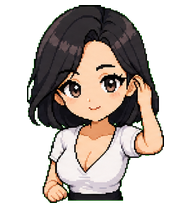
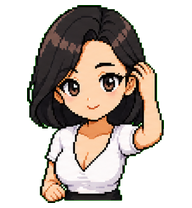
fix(pets): match Vera jumping style to idle rows

Changed region(s): [[0.125, 0.0288, 0.875, 0.9808], [0.4062, 0.0, 0.5312, 0.0288], [0.4688, 0.6635, 0.5, 0.6923]]

diff --git a/pet-runs/vera-clear/prompts/rows/jumping.md b/pet-runs/vera-clear/prompts/rows/jumping.md
@@ -15,7 +15,7 @@ Style contract: Codex digital pet sprite style: pixel-art-adjacent low-resolutio
 
 Use this prompt as an authoritative sprite-production spec. Do not expand it into a polished illustration, painterly character image, anime key art, 3D render, vector mascot, glossy app icon, realistic animal portrait, or marketing artwork.
 
-Animation action: subtle mouseover hair-tidy gesture: one hand rises to the ear, gently sweeps the side hair behind the ear, then settles.
+Animation action: subtle mouseover hair-tidy gesture: one hand rises in front of the ear, gathers the side hair there, gently sweeps it behind the ear, then settles.
 
 Current canonical character lock:
 - Preserve the first approved base's slightly longer soft oval face, warm gray-brown eyes, tiny friendly smile, side-swept black bob, and broad simple hair highlights.
@@ -26,7 +26,7 @@ Current canonical character lock:
 
 User motion directive:
 - No laptop in this row.
-- Replace the old jump with a one-hand hair-tidy gesture: only the same one hand throughout the row reaches beside the ear/back hair, lightly gathers the side hair, and sweeps it behind the ear.
+- Replace the old jump with a one-hand hair-tidy gesture: only the same one hand throughout the row reaches in front of the ear, lightly gathers the side hair there, and sweeps it behind the ear.
 - Do not flick the hair outward, fan the hair tips away from the head, or scale the whole character down to make room for motion. The hair should stay close to the idle silhouette.
 - Keep the other hand down or near the body for the entire row. Do not switch hands between frames and do not use both hands.
 - Show a small confident/cute head tilt, a tidy gentle expression, and light inward/behind-ear hair movement. Keep the body mostly bust-only and compact.
@@ -34,9 +34,10 @@ User motion directive:
 - Preserve the base outfit proportions: white V-neck shirt ends near the waist, then a thin readable dark/black waistband or pants-start shape appears at the bottom of the bust. Avoid an all-white torso below the chest.
 - Keep the torso vertically shorter than the current/previous jumping version; the body should not feel elongated compared with the head.
 - Match the current idle/waving silhouette width. In each 192 x 208 source cell, keep the visible character bbox roughly 130-136 px wide, centered near x=96. Do not create narrow 116 px settle frames or wide 150 px hair-fan frames.
+- Match the current `idle` and `waving` row rendering style closely: same thick dark outline density, same stepped/pixel-adjacent edges, same hair highlight shape language, same face size, same white shirt/collar rendering, and same small dark waist hint. Do not make this row smoother, thinner-lined, darker, or more polished than those rows.
 
 State-specific requirements:
-- Across 5 frames: the same hand starts low, rises beside the ear, fingers touch the side hair, sweeps/tucks the hair behind the ear, then settles back toward the idle pose.
+- Across 5 frames: the same hand starts low, rises in front of the ear, fingers touch the hair in front of the ear, sweeps/tucks the hair behind the ear, then settles back toward the idle pose.
 - The hair-tidy hand must stay on one consistent side of the character across all frames.
 - Use hand position and a small behind-ear hair shift to sell the action; do not use floor shadows, dust, landing marks, bounce marks, outward hair fans, or detached effects.
 - Keep the pose tasteful and non-explicit.

diff --git a/apps/pet-overlay/PATCH_NOTES.md b/apps/pet-overlay/PATCH_NOTES.md
@@ -13,6 +13,9 @@
 - Retargeted the `jumping` action away from a width-changing hair flick toward
   a subtler behind-ear hair-tidy gesture that can stay closer to the idle
   silhouette.
+- Tightened the `jumping` prompt so the hand starts in front of the ear before
+  sweeping the hair behind it, while matching the existing `idle`/`waving`
+  outline style more closely.
 
 Validation:
 
